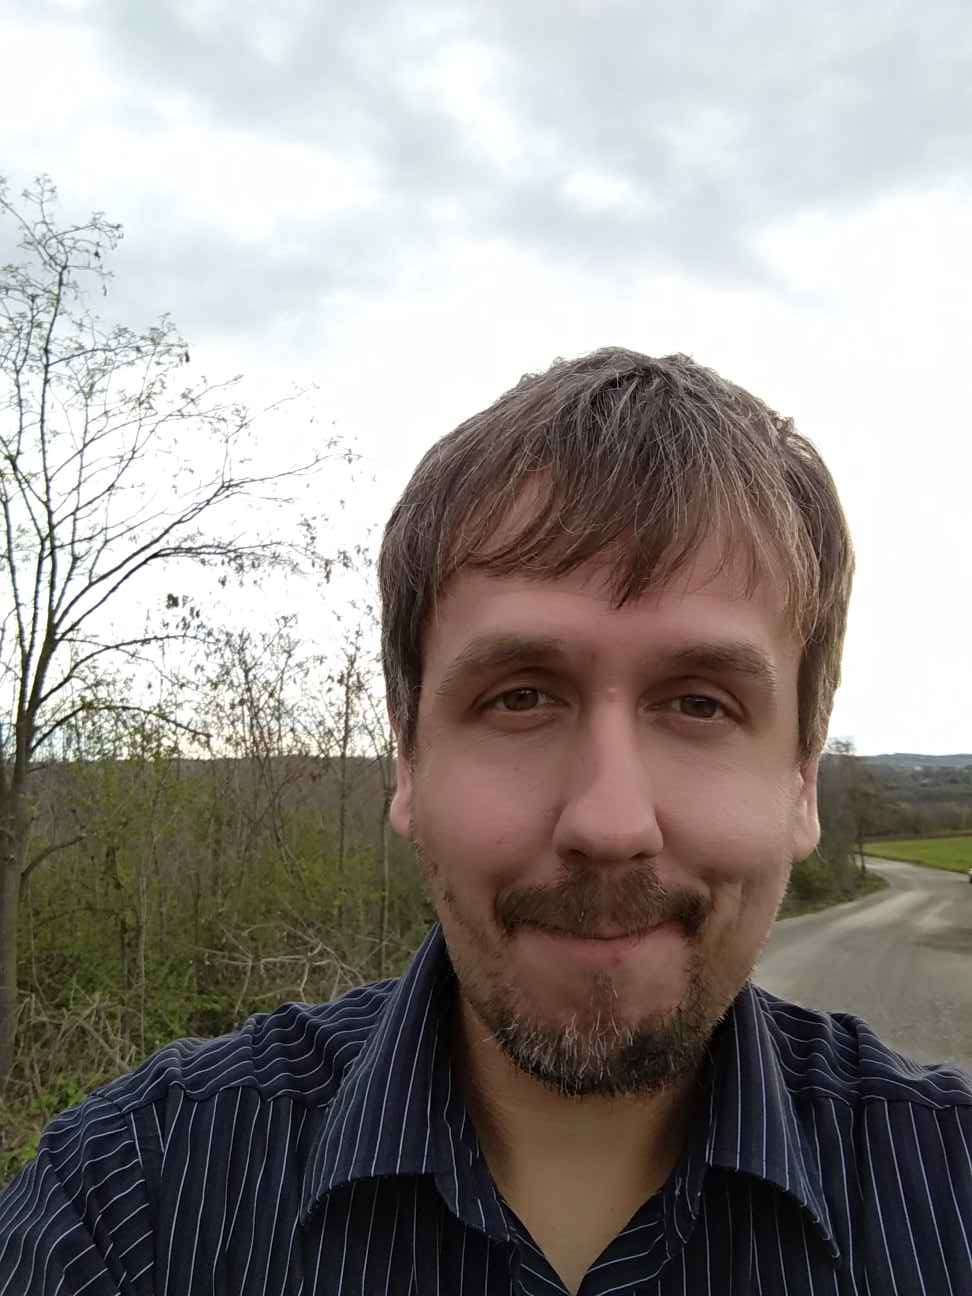
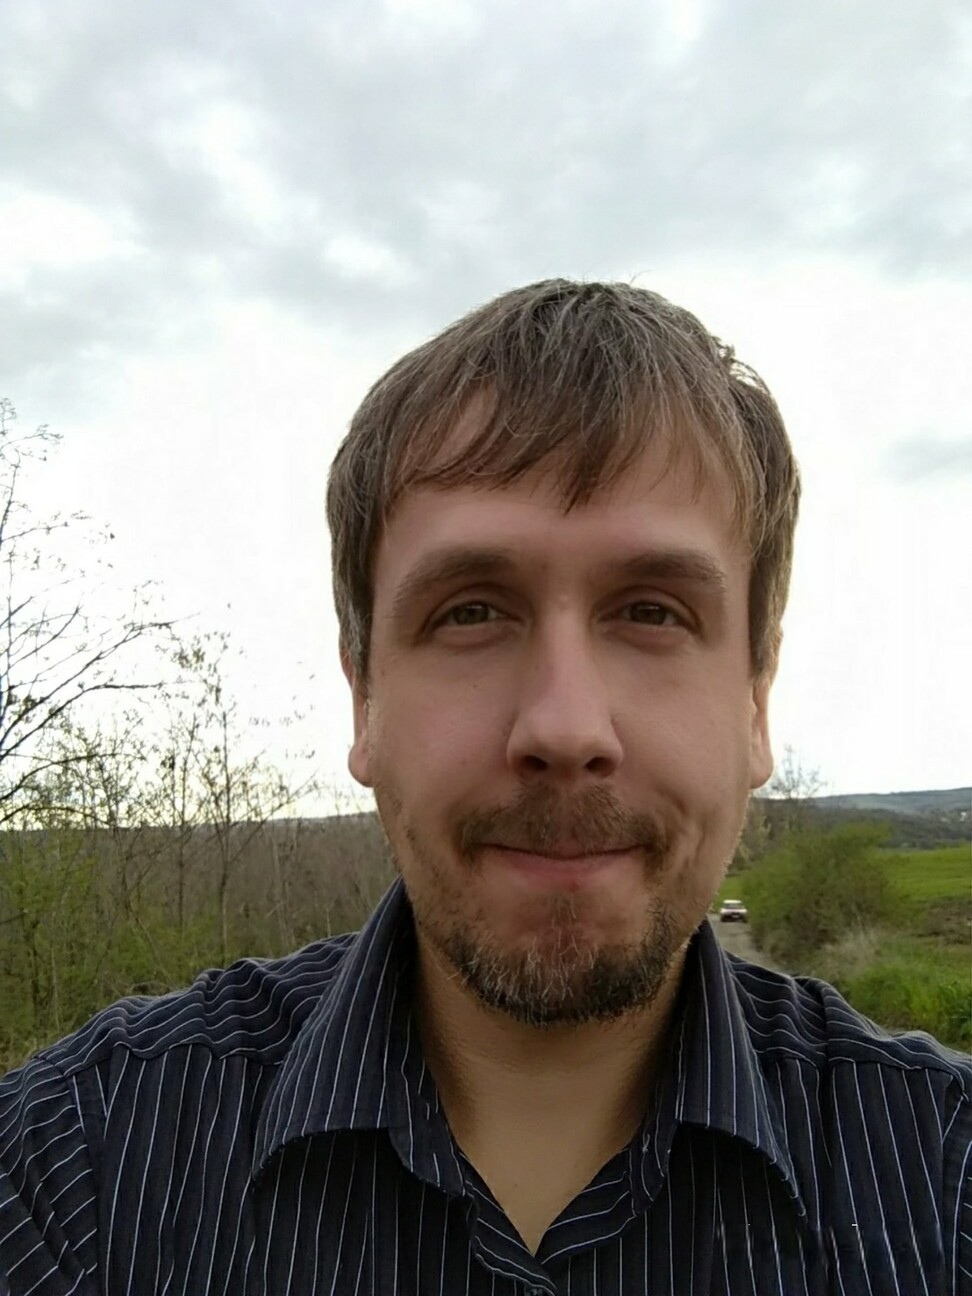
change profile photos

diff --git a/src/components/AboutBioComponent.js b/src/components/AboutBioComponent.js
@@ -1,6 +1,6 @@
 import React, { useState } from "react";
 
-import smileImg from "../images/profil-intelektualac.jpg";
+import smileImg from "../images/profil-vazi.jpg";
 import seriousImg from "../images/profil.jpg";
 
 import { mySummary } from "../config/texts";
